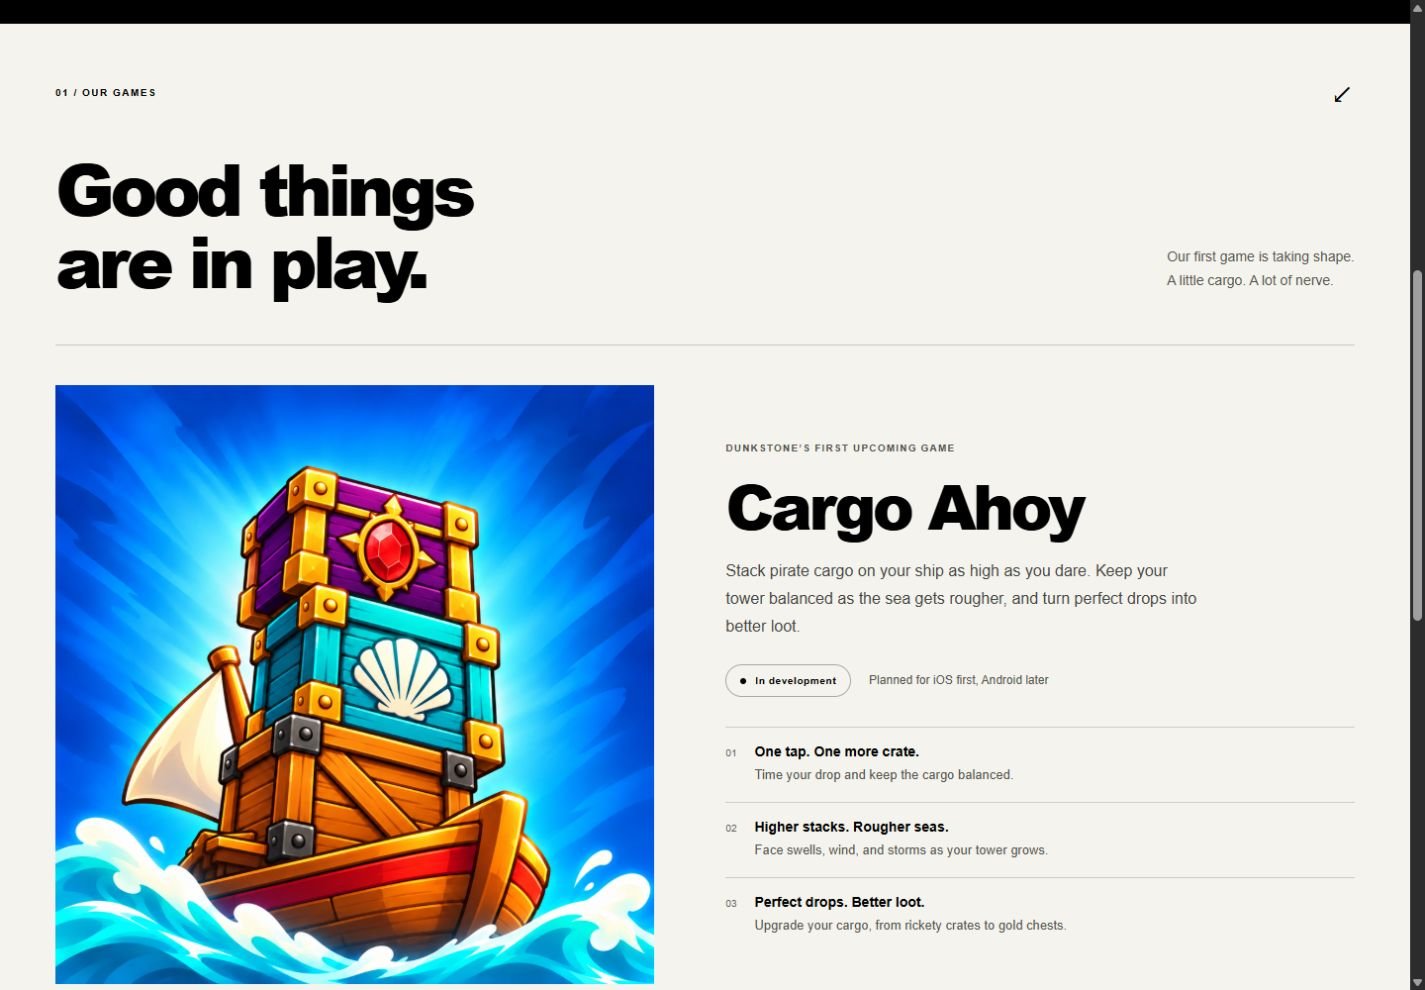
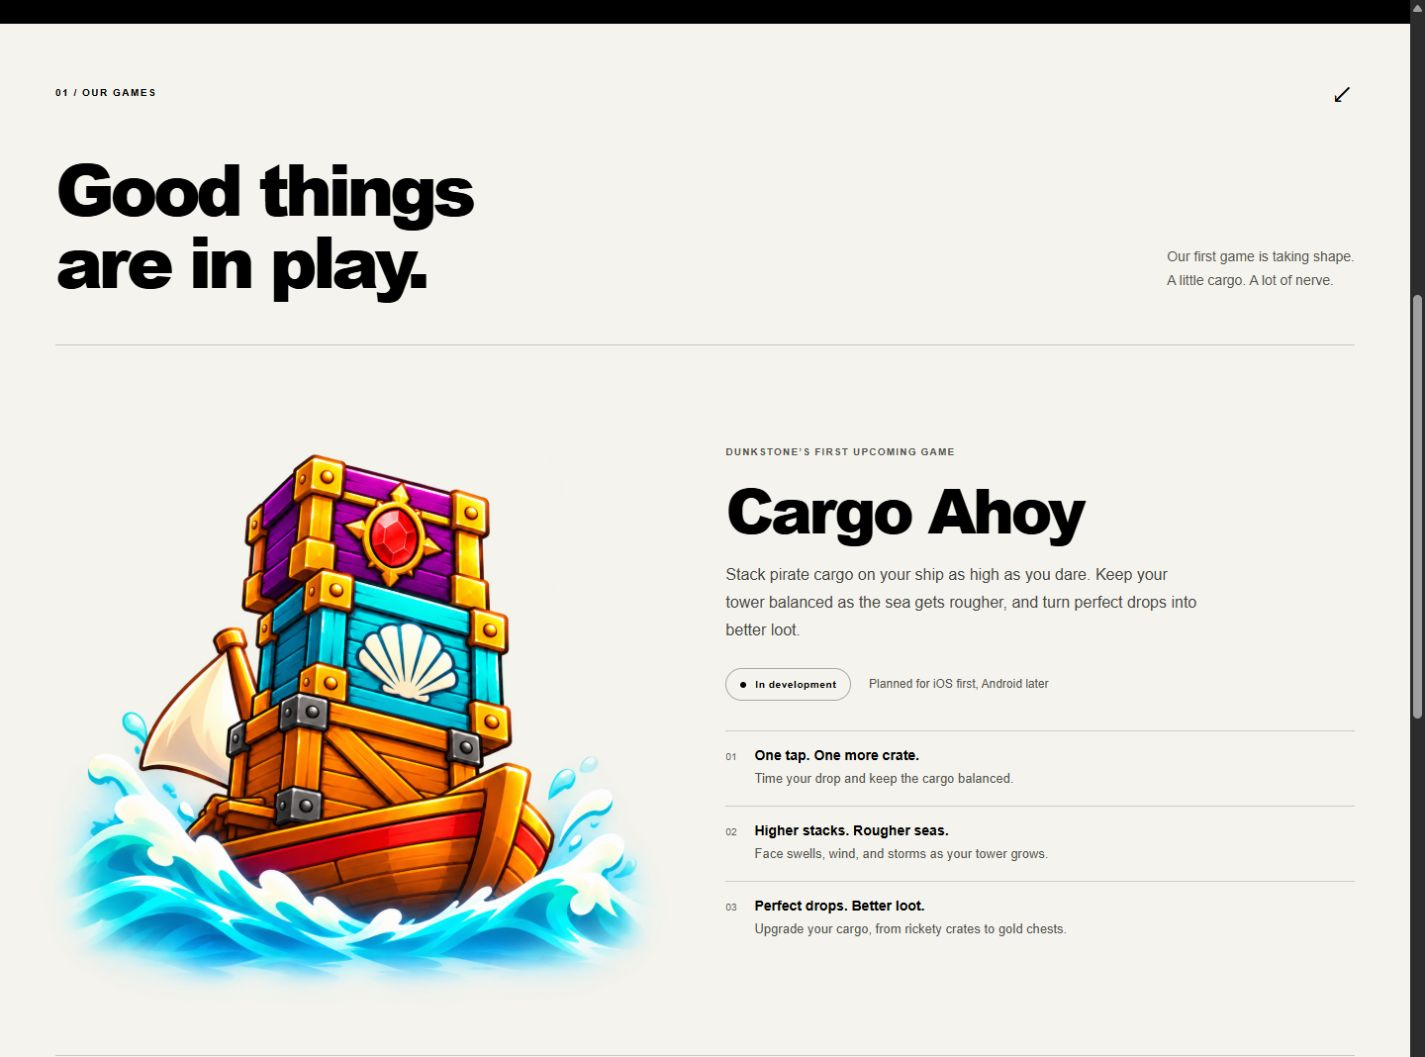
v3

diff --git a/dist/styles.css b/dist/styles.css
@@ -63,9 +63,10 @@ h2 { font-family: 'Arial Black', Arial, sans-serif; font-weight: 900; font-size:
 .games-heading > p { font-size: 14px; line-height: 1.7; margin: 0 0 4px; color: #55554f; }
 .game-entry { display: grid; grid-template-columns: minmax(0, 1fr) minmax(0, 1.05fr); align-items: center; gap: clamp(28px, 5vw, 80px); padding: 40px 0; border-block: 1px solid #c9c9c1; }
 .game-entry + .game-entry { border-top: 0; }
-.game-artwork { margin: 0; }
-.game-artwork img, .catalogue-artwork { width: 100%; aspect-ratio: 1; object-fit: contain; }
-.game-artwork figcaption { margin-top: 14px; font-size: 9px; letter-spacing: 1.2px; color: #55554f; }
+/* Freestanding artwork blends into the paper; no app-icon frame or crop. */
+.game-artwork { margin: 0 -16px; }
+.game-artwork img { width: 100%; height: auto; }
+.catalogue-artwork { width: 100%; aspect-ratio: 1; object-fit: contain; }
 .game-details .eyebrow { font-size: 10px; letter-spacing: 1.2px; color: #55554f; margin-bottom: 16px; }
 .game-details h3 { font-family: 'Arial Black', Arial, sans-serif; font-size: clamp(36px, 4.4vw, 64px); letter-spacing: -.06em; line-height: 1.05; margin: 0 0 20px; }
 .game-description { color: #45453f; font-size: 16px; line-height: 1.75; margin: 0; max-width: 490px; }
@@ -155,7 +156,7 @@ h2 { font-family: 'Arial Black', Arial, sans-serif; font-weight: 900; font-size:
   .games-heading h2 { font-size: clamp(46px, 11vw, 70px); }
   .games-heading > p { margin-top: 23px; font-size: 14px; }
   .game-entry { grid-template-columns: 1fr; gap: 30px; padding: 28px 0; }
-  .game-artwork { max-width: 480px; }
+  .game-artwork { max-width: 504px; margin: 0 -12px; }
   .game-details h3 { font-size: clamp(40px, 10vw, 60px); }
   .game-details .eyebrow { font-size: 9px; }
   .game-description { font-size: 15px; }

diff --git a/dist/index.html b/dist/index.html
@@ -58,8 +58,7 @@
         <div id="game-list">
           <article id="cargo-ahoy" class="game-entry" aria-labelledby="cargo-ahoy-title">
             <figure class="game-artwork">
-              <img src="assets/cargo-ahoy.png" alt="Cargo Ahoy game artwork: three colorful cargo crates stacked on a small sloop at sea" width="1024" height="1024" loading="lazy">
-              <figcaption>CARGO AHOY / GAME ARTWORK</figcaption>
+              <img src="assets/cargo-ahoy-feature.png" alt="Cargo Ahoy game artwork: three colorful cargo crates stacked on a small sloop, surrounded by turquoise waves" width="1254" height="1254" loading="lazy">
             </figure>
             <div class="game-details">
               <p class="eyebrow">DUNKSTONE’S FIRST UPCOMING GAME</p>

diff --git a/dist/games.js b/dist/games.js
@@ -5,6 +5,6 @@ window.DUNKSTONE_GAMES = [{
   title: 'Cargo Ahoy',
   status: 'In development',
   description: 'Stack pirate cargo on your ship as high as you dare. Keep your tower balanced as the sea gets rougher, and turn perfect drops into better loot.',
-  artwork: 'assets/cargo-ahoy.png',
+  artwork: 'assets/cargo-ahoy-feature.png',
   platforms: ['iOS first', 'Android later']
 }];

diff --git a/README.md b/README.md
@@ -29,11 +29,11 @@ Open http://127.0.0.1:4173. Alternatively, serve `dist/` with any static web ser
 
 Add confirmed titles to `window.DUNKSTONE_GAMES` in `dist/games.js`. Supported fields are `title`, `status`, `description`, `artwork`, optional `platforms` (a string array), `appStoreUrl`, and `playStoreUrl`. Artwork paths are relative to the website root. Store links are rendered only for valid HTTPS URLs; omit them until listings are live. Status and platforms remain visible without store links. Missing status defaults to “In development”; missing platforms are omitted.
 
-The renderer reuses the existing HTML feature by title, updates catalogue fields, and preserves its artwork caption and gameplay highlights. Keep the Cargo Ahoy data and HTML fallback in sync. An empty catalogue leaves the HTML introduction intact. Future titles without artwork show text rather than borrowing the studio icon.
+The renderer reuses the existing HTML feature by title, updates catalogue fields, and preserves its gameplay highlights. Keep the Cargo Ahoy data and HTML fallback in sync. An empty catalogue leaves the HTML introduction intact. Future titles without artwork show text rather than borrowing the studio icon.
 
 ## Asset provenance and handling
 
-All v2 assets were copied byte-for-byte from these read-only sibling repositories; only Website is edited:
+The original v2 assets below were copied byte-for-byte from these read-only sibling repositories; only Website is edited:
 
 | Website asset (`dist/assets/`) | Approved source |
 | --- | --- |
@@ -46,7 +46,9 @@ All v2 assets were copied byte-for-byte from these read-only sibling repositorie
 | `dunkstone-splash-static.png` | `Branding/splash-animation/dunkstone-splash-dark-static.png` |
 | `cargo-ahoy.png` | `CargoAhoy/ArtSource/References/UI/app-icon.png` (approved October 28, 2026) |
 
-Cargo Ahoy copy is grounded in its `docs/GDD.md`. Studio attribution follows the owner’s instruction; the game repository README retains an older studio name. The game image is approved icon artwork, not a gameplay screenshot.
+Cargo Ahoy copy is grounded in its `docs/GDD.md`. Studio attribution follows the owner’s instruction; the game repository README retains an older studio name. The original square icon remains in `cargo-ahoy.png` for reference. The website displays `cargo-ahoy-feature.png`, a transparent ship-and-cargo illustration derived with the built-in image-generation tool from that icon and the owner-approved integrated-artwork mockup. Its organic wave edges blend directly into the off-white section; it is promotional artwork, not a gameplay screenshot. Neither reference repository was modified.
+
+Artwork brief: preserve the three crates, sloop, sail, colors, and game illustration style; remove the blue burst and square frame; use true transparent alpha with soft wave edges and no text or additional objects. The generated PNG is stored inside Website and both the HTML fallback and catalogue reference it.
 
 Use black `#000000` and off-white `#F4F3ED`. Preserve logo proportions, lettering, stone tilt, eyes, and clear space of at least 10% of the artwork’s longest edge. Use the small stone at 32–48 px and the faithful stone at 64 px and above. Never use the studio stone as a game icon. Do not ship the original reference raster or modify the approved motion files. No press-kit download is included.
 
